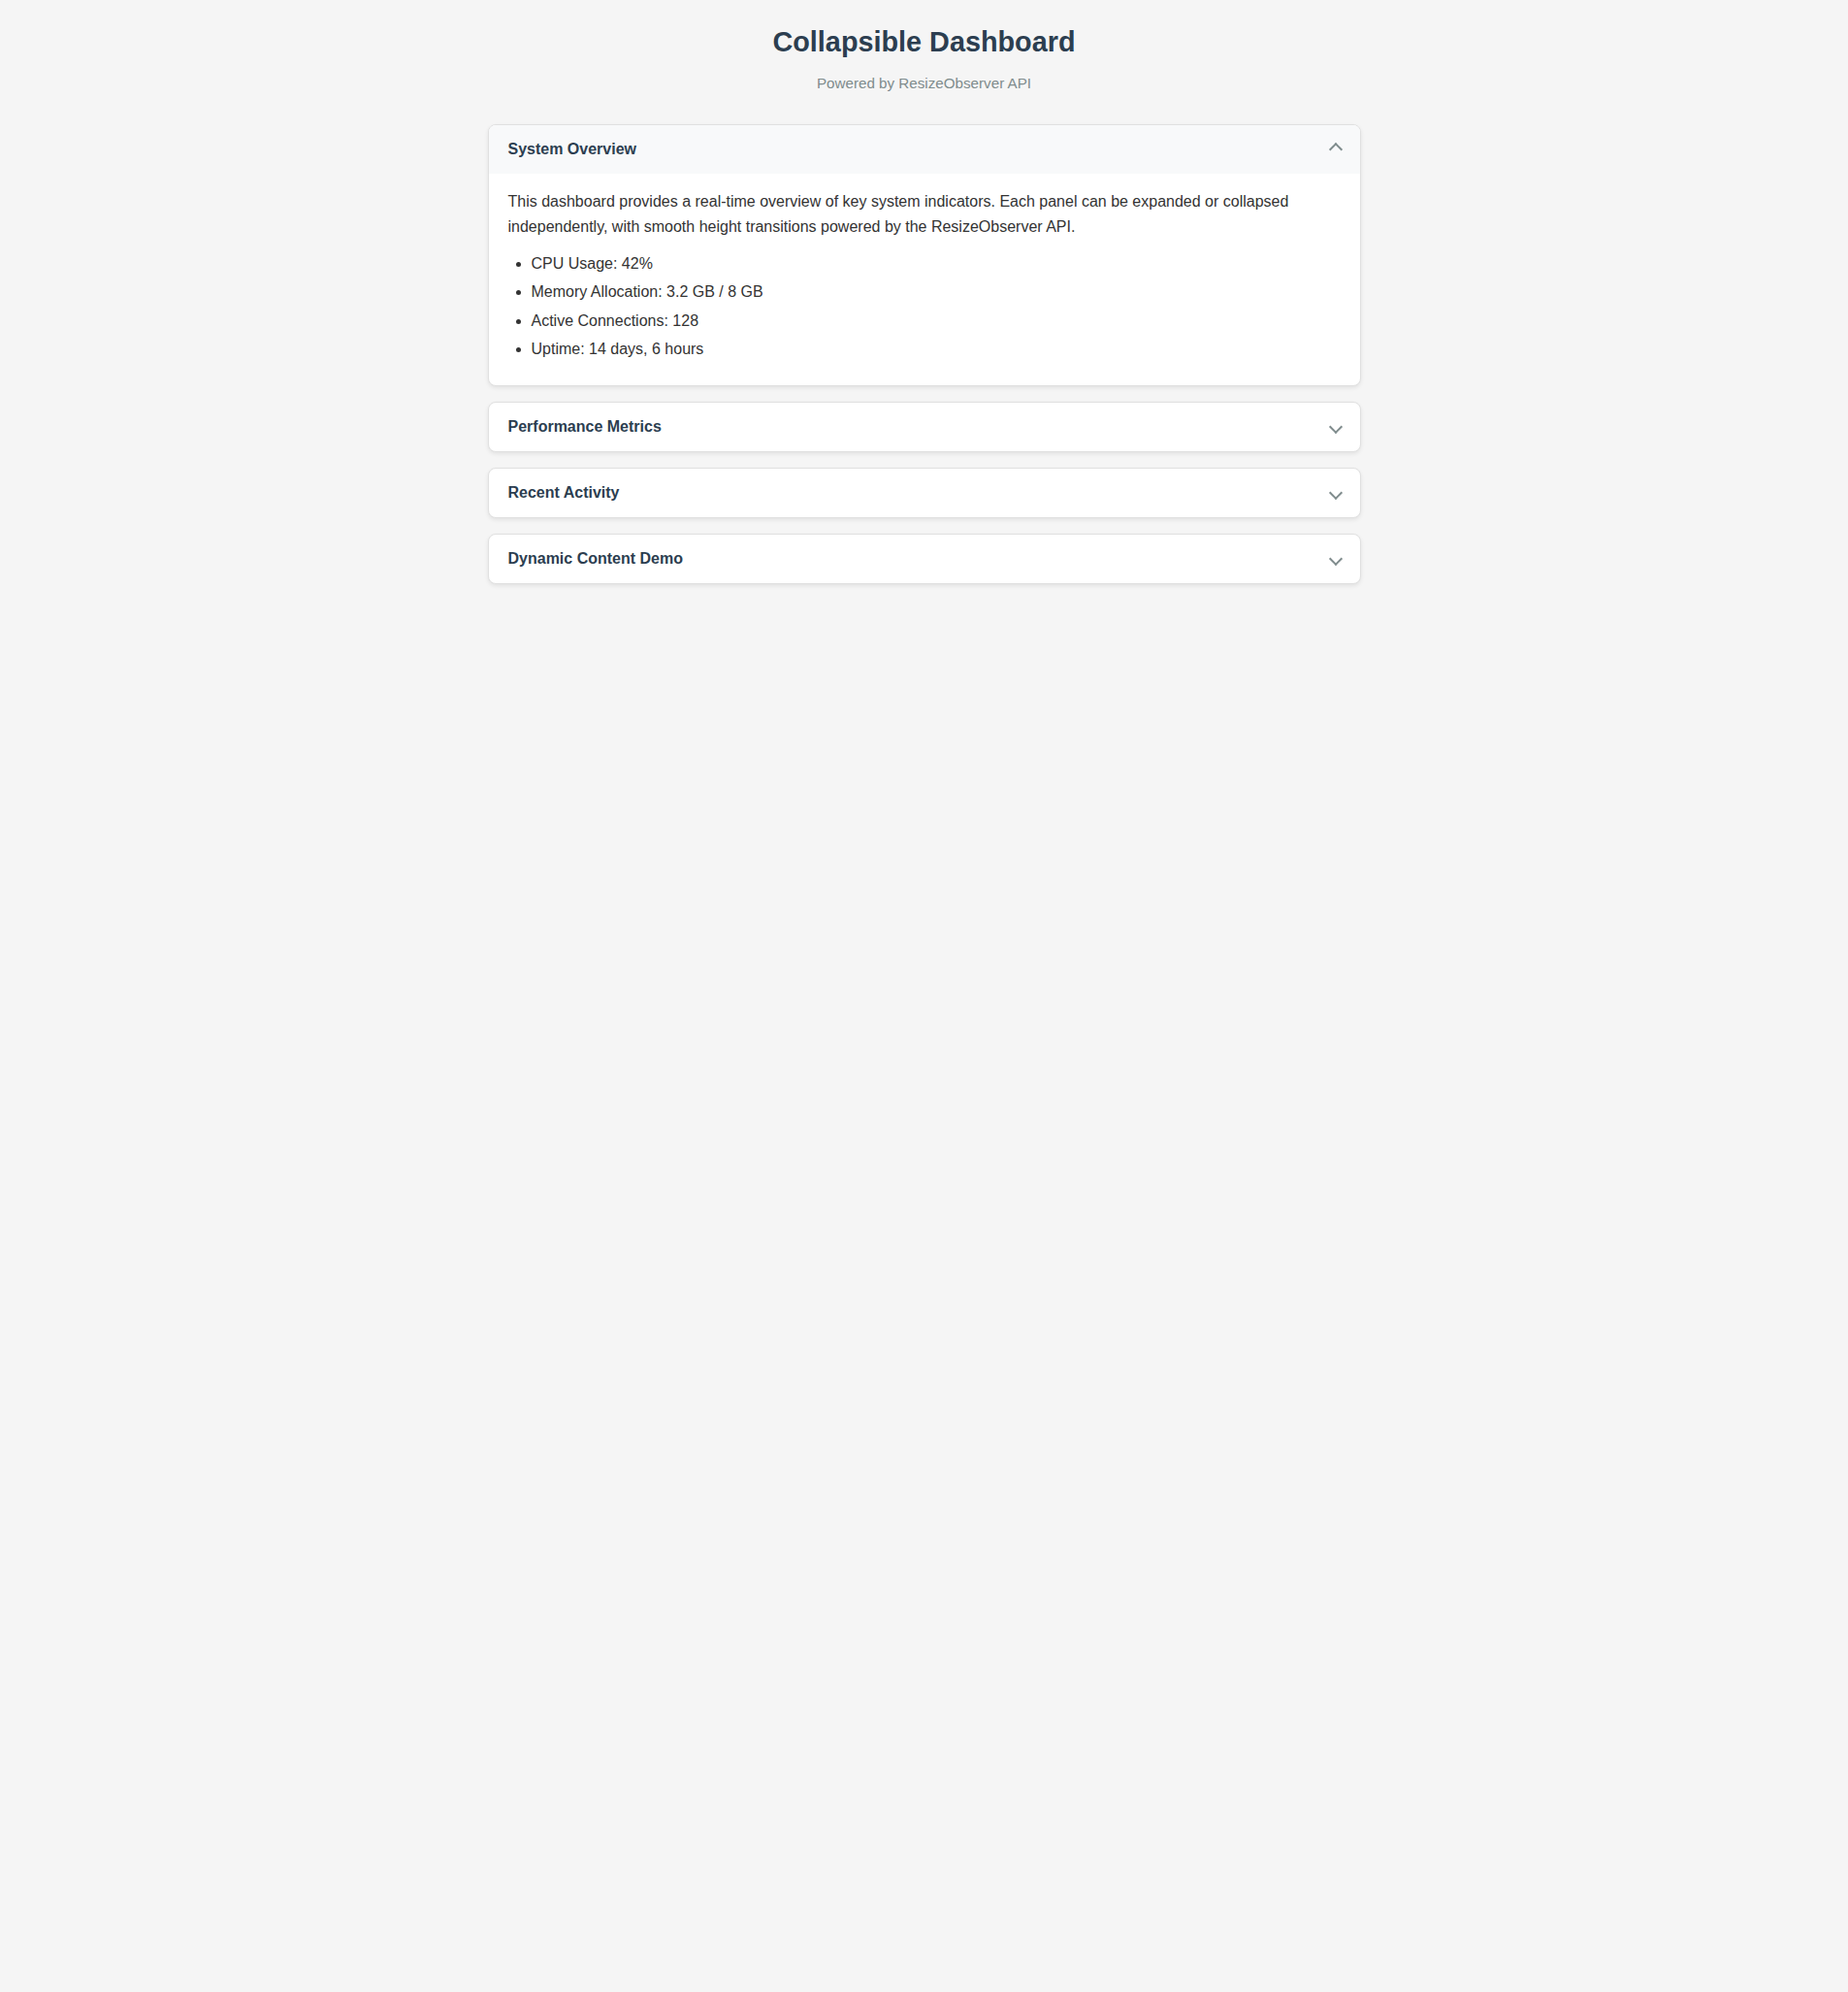
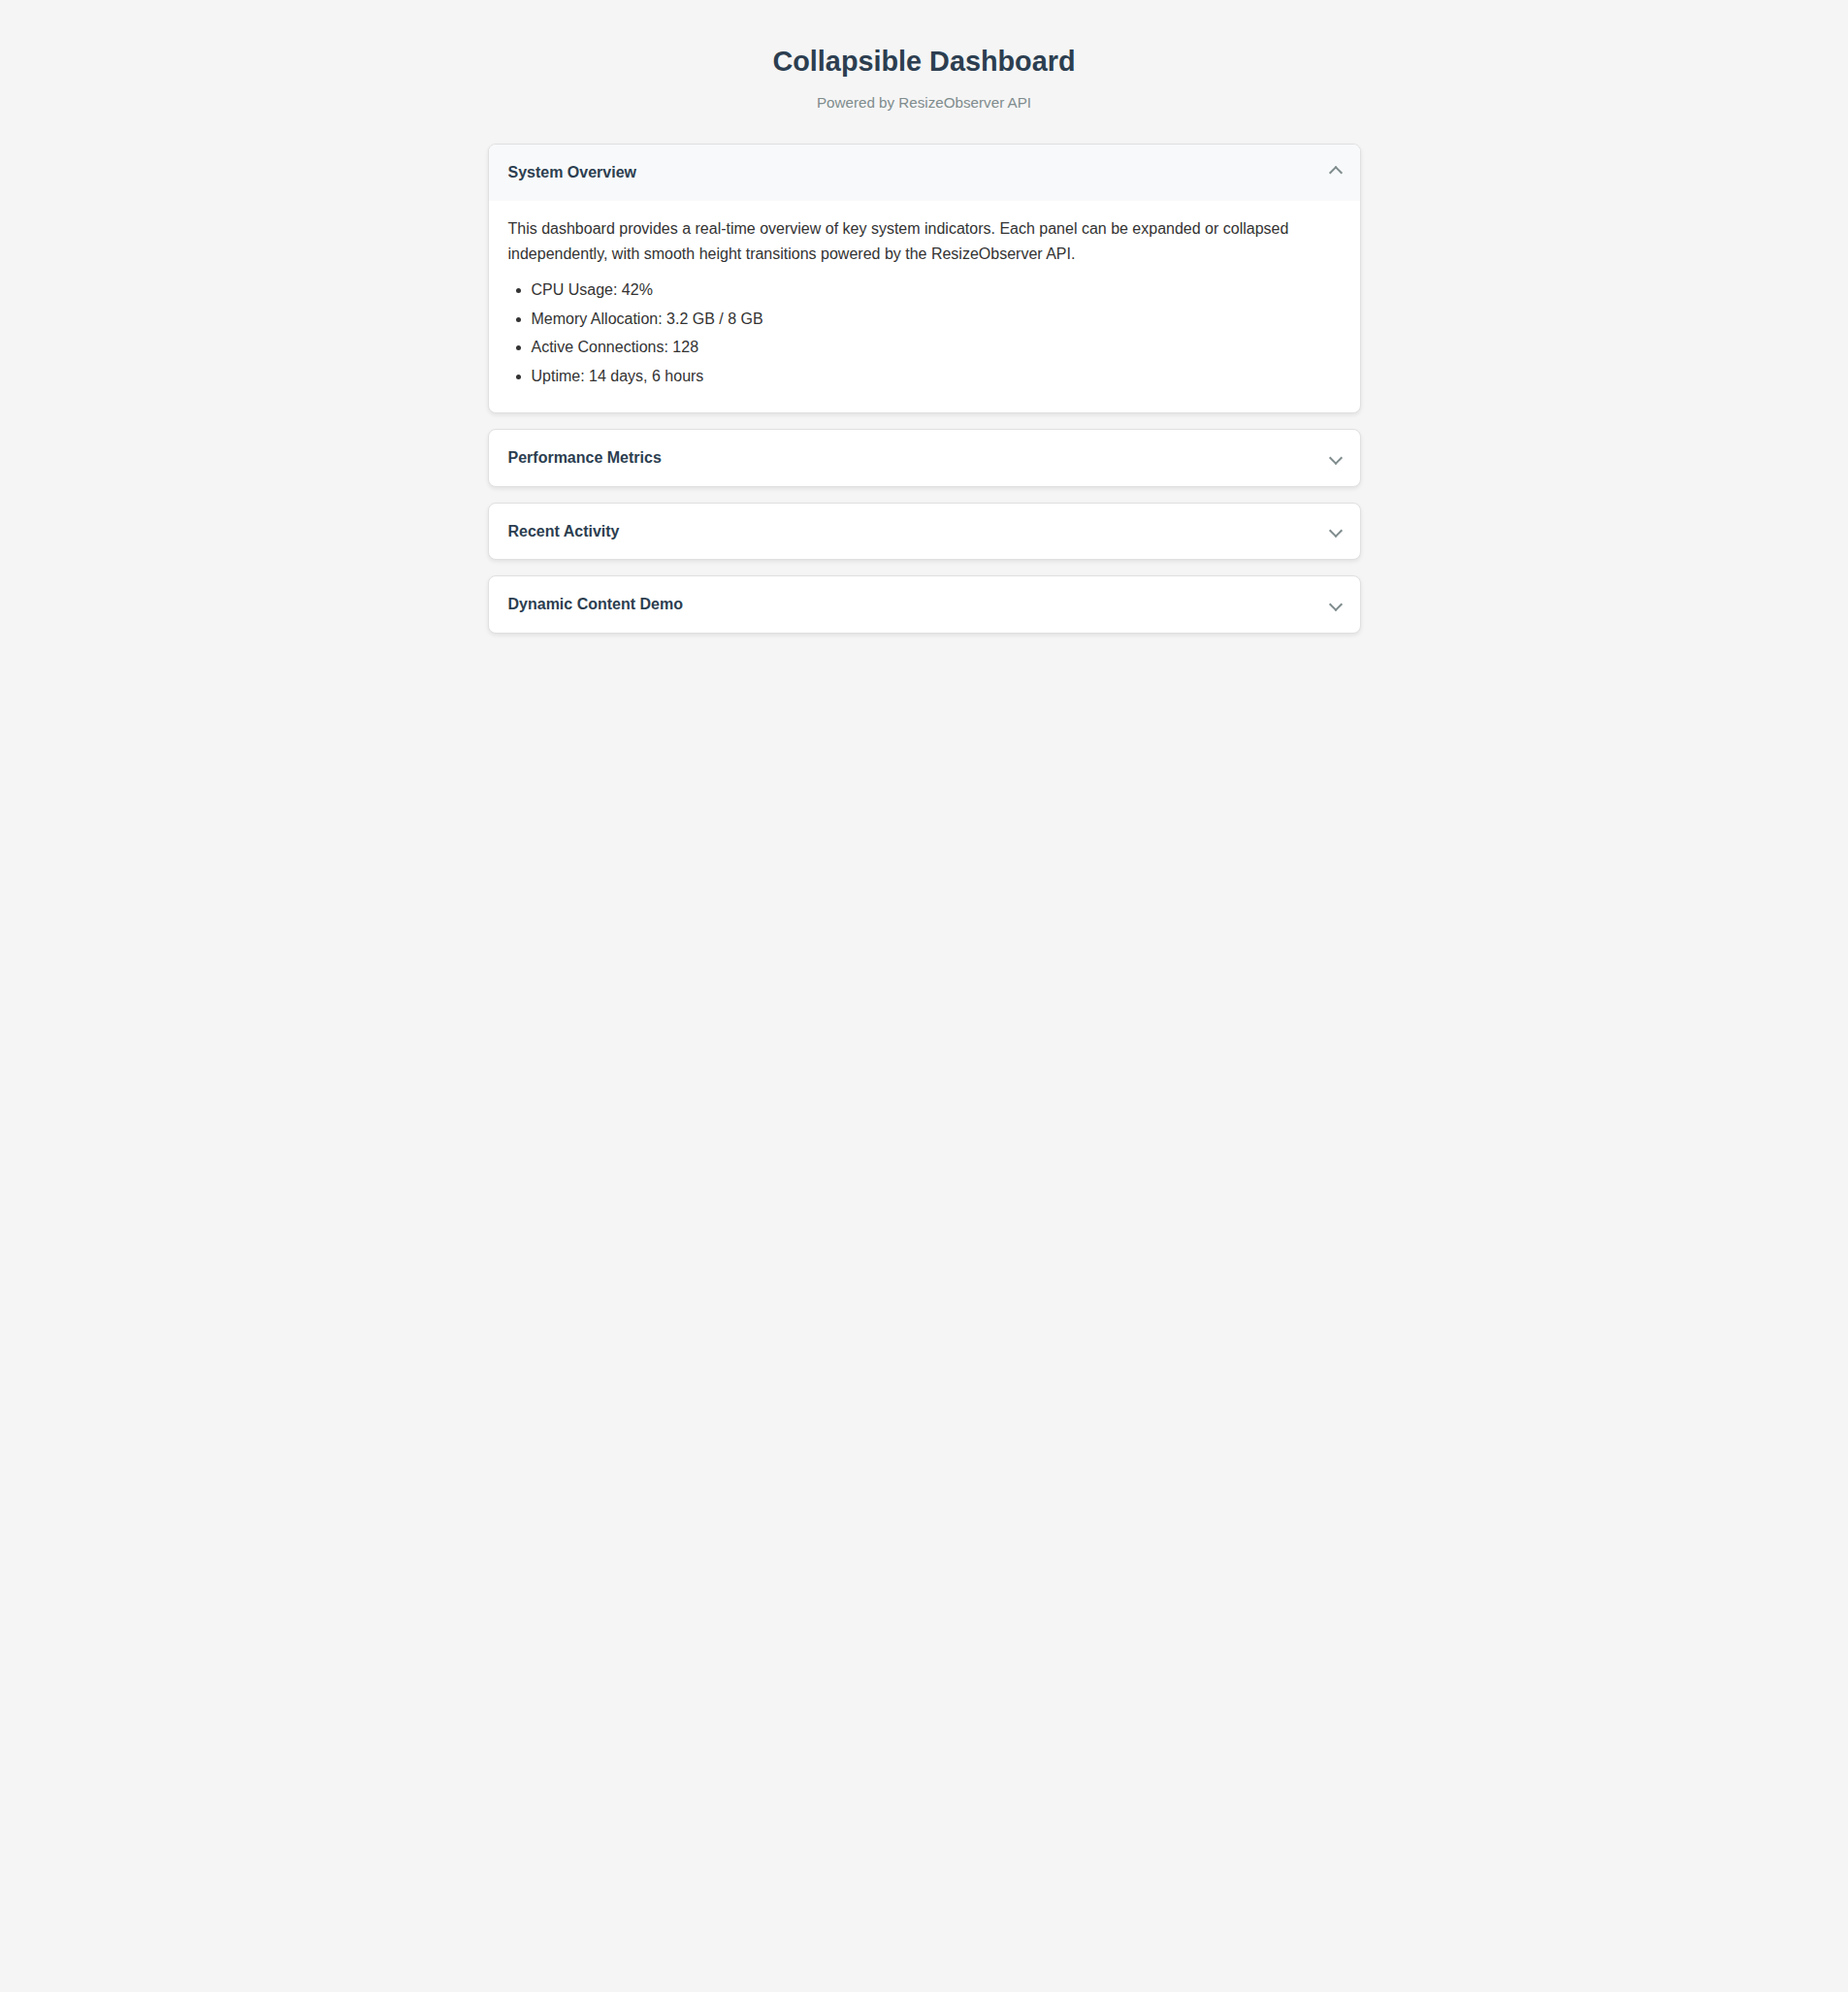
Create public/css/dashboard.css — Collapsible dashboard stylesheet
- Add complete CSS3 stylesheet for ResizeObserver-powered collapsible dashboard
- Global reset with box-sizing: border-box, system font stack, base body styles
- Skip navigation link (visually hidden, appears on focus-visible)
- Centered responsive layout: max-width 900px, 90% width, auto margins
- Panel cards with border, 8px border-radius, subtle box-shadow, overflow hidden
- Panel header as flex container: button reset, cursor pointer, space-between layout
- Chevron indicator via CSS borders + transform: rotate(45deg/-135deg) on data-collapsed
- Content wrapper transition: overflow hidden + height 300ms ease (JS sets explicit px)
- Inner content padding, paragraph/list/table styling with border-collapse
- Dynamic content demo buttons: add (blue primary), remove (red outline/danger)
- Hover states wrapped in @media (hover: hover) to prevent sticky hover on touch
- Focus-visible outlines on all interactive elements for keyboard accessibility
- Mobile breakpoint at 600px: full-width container, reduced padding and font sizes
- prefers-reduced-motion: reduce — all transition durations set to 0ms
- Pure CSS3, zero external dependencies, zero preprocessor syntax
- 302 lines, browser-validated with 33 parsed rules and 4 media queries

Changed region(s): [[0.2787, 0.0623, 0.7123, 0.3117], [0.4026, 0.0, 0.5885, 0.0623]]

diff --git a/public/css/dashboard.css b/public/css/dashboard.css
@@ -1,0 +1,301 @@
+/* ==========================================================================
+   Collapsible Dashboard Stylesheet
+   Styles for the ResizeObserver-powered collapsible dashboard UI.
+   Loaded by public/dashboard.html via <link rel="stylesheet" href="css/dashboard.css">
+   ========================================================================== */
+
+/* --------------------------------------------------------------------------
+   Phase 1: Global Reset and Base Styles
+   -------------------------------------------------------------------------- */
+
+*,
+*::before,
+*::after {
+  box-sizing: border-box;
+  margin: 0;
+  padding: 0;
+}
+
+body {
+  font-family: -apple-system, BlinkMacSystemFont, 'Segoe UI', Roboto, Oxygen,
+    Ubuntu, Cantarell, sans-serif;
+  line-height: 1.6;
+  color: #333;
+  background-color: #f5f5f5;
+  padding: 1.25rem;
+}
+
+/* Skip navigation link — visually hidden until focused */
+.skip-nav {
+  position: absolute;
+  inset-inline-start: -100vw;
+  z-index: 1000;
+  padding: 0.5rem 1rem;
+  background-color: #2c3e50;
+  color: #ffffff;
+  text-decoration: none;
+  font-weight: 600;
+  border-radius: 0 0 4px 4px;
+}
+
+.skip-nav:focus-visible {
+  inset-inline-start: 50%;
+  transform: translateX(-50%);
+}
+
+/* --------------------------------------------------------------------------
+   Phase 2: Dashboard Layout (Centered Container, Responsive Widths)
+   -------------------------------------------------------------------------- */
+
+.dashboard-container {
+  max-width: 900px;
+  width: 90%;
+  margin: 0 auto;
+  padding-block: 1.25rem;
+}
+
+.dashboard-header {
+  text-align: center;
+  margin-block-end: 1.875rem;
+}
+
+.dashboard-header h1 {
+  font-size: 1.8rem;
+  color: #2c3e50;
+  margin-block-end: 0.5rem;
+}
+
+.dashboard-header p {
+  font-size: 0.95rem;
+  color: #7f8c8d;
+}
+
+/* --------------------------------------------------------------------------
+   Phase 3: Panel Appearance (Border, Border-Radius, Box-Shadow)
+   -------------------------------------------------------------------------- */
+
+.panel {
+  background: #ffffff;
+  border: 1px solid #e0e0e0;
+  border-radius: 8px;
+  box-shadow: 0 2px 4px rgba(0, 0, 0, 0.08);
+  margin-block-end: 1rem;
+  overflow: hidden;
+}
+
+/* --------------------------------------------------------------------------
+   Phase 4: Panel Header Styling (Cursor, Flex Layout, Chevron Icon)
+   -------------------------------------------------------------------------- */
+
+.panel-header {
+  display: flex;
+  align-items: center;
+  justify-content: space-between;
+  width: 100%;
+  padding: 1rem 1.25rem;
+  background: none;
+  border: none;
+  cursor: pointer;
+  font-size: 1rem;
+  font-weight: 600;
+  color: #2c3e50;
+  text-align: start;
+  font-family: inherit;
+  line-height: inherit;
+  transition: background-color 150ms ease;
+}
+
+@media (hover: hover) {
+  .panel-header:hover {
+    background-color: #f8f9fa;
+  }
+}
+
+.panel-header:focus-visible {
+  outline: 2px solid #3498db;
+  outline-offset: -2px;
+}
+
+.panel-title {
+  flex: 1 1 0;
+  min-width: 0;
+  overflow-wrap: break-word;
+}
+
+/* Chevron indicator — CSS borders + transform: rotate() */
+.panel-chevron {
+  display: inline-block;
+  width: 10px;
+  height: 10px;
+  border-inline-end: 2px solid #7f8c8d;
+  border-block-end: 2px solid #7f8c8d;
+  transform: rotate(45deg);
+  transition: transform 300ms ease;
+  flex-shrink: 0;
+  margin-inline-start: 0.75rem;
+}
+
+/* When panel is expanded, rotate chevron to point upward */
+.panel[data-collapsed="false"] .panel-chevron {
+  transform: rotate(-135deg);
+}
+
+/* --------------------------------------------------------------------------
+   Phase 5: Panel Content Wrapper Transition (Core Animation Mechanism)
+   The wrapper's height is set by JavaScript via ResizeObserver measurements.
+   CSS handles the smooth animation between explicit pixel height values.
+   -------------------------------------------------------------------------- */
+
+.panel-content-wrapper {
+  overflow: hidden;
+  transition: height 300ms ease;
+}
+
+/* Inner content element — observed by ResizeObserver */
+.panel-content {
+  padding: 1rem 1.25rem;
+}
+
+/* --------------------------------------------------------------------------
+   Phase 6: Content Element Styling (Lists, Tables, Paragraphs)
+   -------------------------------------------------------------------------- */
+
+.panel-content p {
+  margin-block-end: 0.75rem;
+}
+
+.panel-content p:last-child {
+  margin-block-end: 0;
+}
+
+.panel-content ul,
+.panel-content ol {
+  margin-block: 0.5rem;
+  padding-inline-start: 1.5rem;
+}
+
+.panel-content li {
+  margin-block-end: 0.25rem;
+}
+
+.panel-content li:last-child {
+  margin-block-end: 0;
+}
+
+.panel-content table {
+  width: 100%;
+  border-collapse: collapse;
+  margin-block: 0.5rem;
+}
+
+.panel-content th,
+.panel-content td {
+  padding: 0.5rem 0.75rem;
+  border: 1px solid #e0e0e0;
+  text-align: start;
+}
+
+.panel-content th {
+  background-color: #f8f9fa;
+  font-weight: 600;
+}
+
+/* --------------------------------------------------------------------------
+   Phase 7: Utility Classes for Dynamic Content Demo Buttons
+   -------------------------------------------------------------------------- */
+
+.add-content-btn,
+.remove-content-btn {
+  display: inline-block;
+  padding: 0.5rem 1rem;
+  margin-block-start: 0.5rem;
+  margin-block-end: 0.25rem;
+  margin-inline-end: 0.25rem;
+  font-size: 0.875rem;
+  font-family: inherit;
+  border-radius: 4px;
+  cursor: pointer;
+  transition: background-color 150ms ease, color 150ms ease;
+}
+
+.add-content-btn {
+  background-color: #3498db;
+  color: #ffffff;
+  border: 1px solid #3498db;
+}
+
+.add-content-btn:focus-visible {
+  outline: 2px solid #3498db;
+  outline-offset: 2px;
+}
+
+.remove-content-btn {
+  background-color: #ffffff;
+  color: #e74c3c;
+  border: 1px solid #e74c3c;
+}
+
+@media (hover: hover) {
+  .add-content-btn:hover {
+    background-color: #2980b9;
+  }
+
+  .remove-content-btn:hover {
+    background-color: #e74c3c;
+    color: #ffffff;
+  }
+}
+
+.remove-content-btn:focus-visible {
+  outline: 2px solid #e74c3c;
+  outline-offset: 2px;
+}
+
+/* --------------------------------------------------------------------------
+   Phase 8: Responsive Design (Mobile to Desktop)
+   -------------------------------------------------------------------------- */
+
+@media (max-width: 600px) {
+  .dashboard-container {
+    width: 100%;
+    padding-inline: 0.625rem;
+  }
+
+  .panel-header {
+    padding: 0.75rem 1rem;
+    font-size: 0.9rem;
+  }
+
+  .panel-content {
+    padding: 0.75rem 1rem;
+  }
+
+  .dashboard-header h1 {
+    font-size: 1.4rem;
+  }
+}
+
+/* --------------------------------------------------------------------------
+   Phase 9: prefers-reduced-motion Media Query Support
+   When the user's OS enables reduced motion, all transitions complete
+   instantaneously while still applying correct heights via JavaScript.
+   -------------------------------------------------------------------------- */
+
+@media (prefers-reduced-motion: reduce) {
+  .panel-content-wrapper {
+    transition-duration: 0ms;
+  }
+
+  .panel-chevron {
+    transition-duration: 0ms;
+  }
+
+  .panel-header {
+    transition-duration: 0ms;
+  }
+
+  .add-content-btn,
+  .remove-content-btn {
+    transition-duration: 0ms;
+  }
+}
